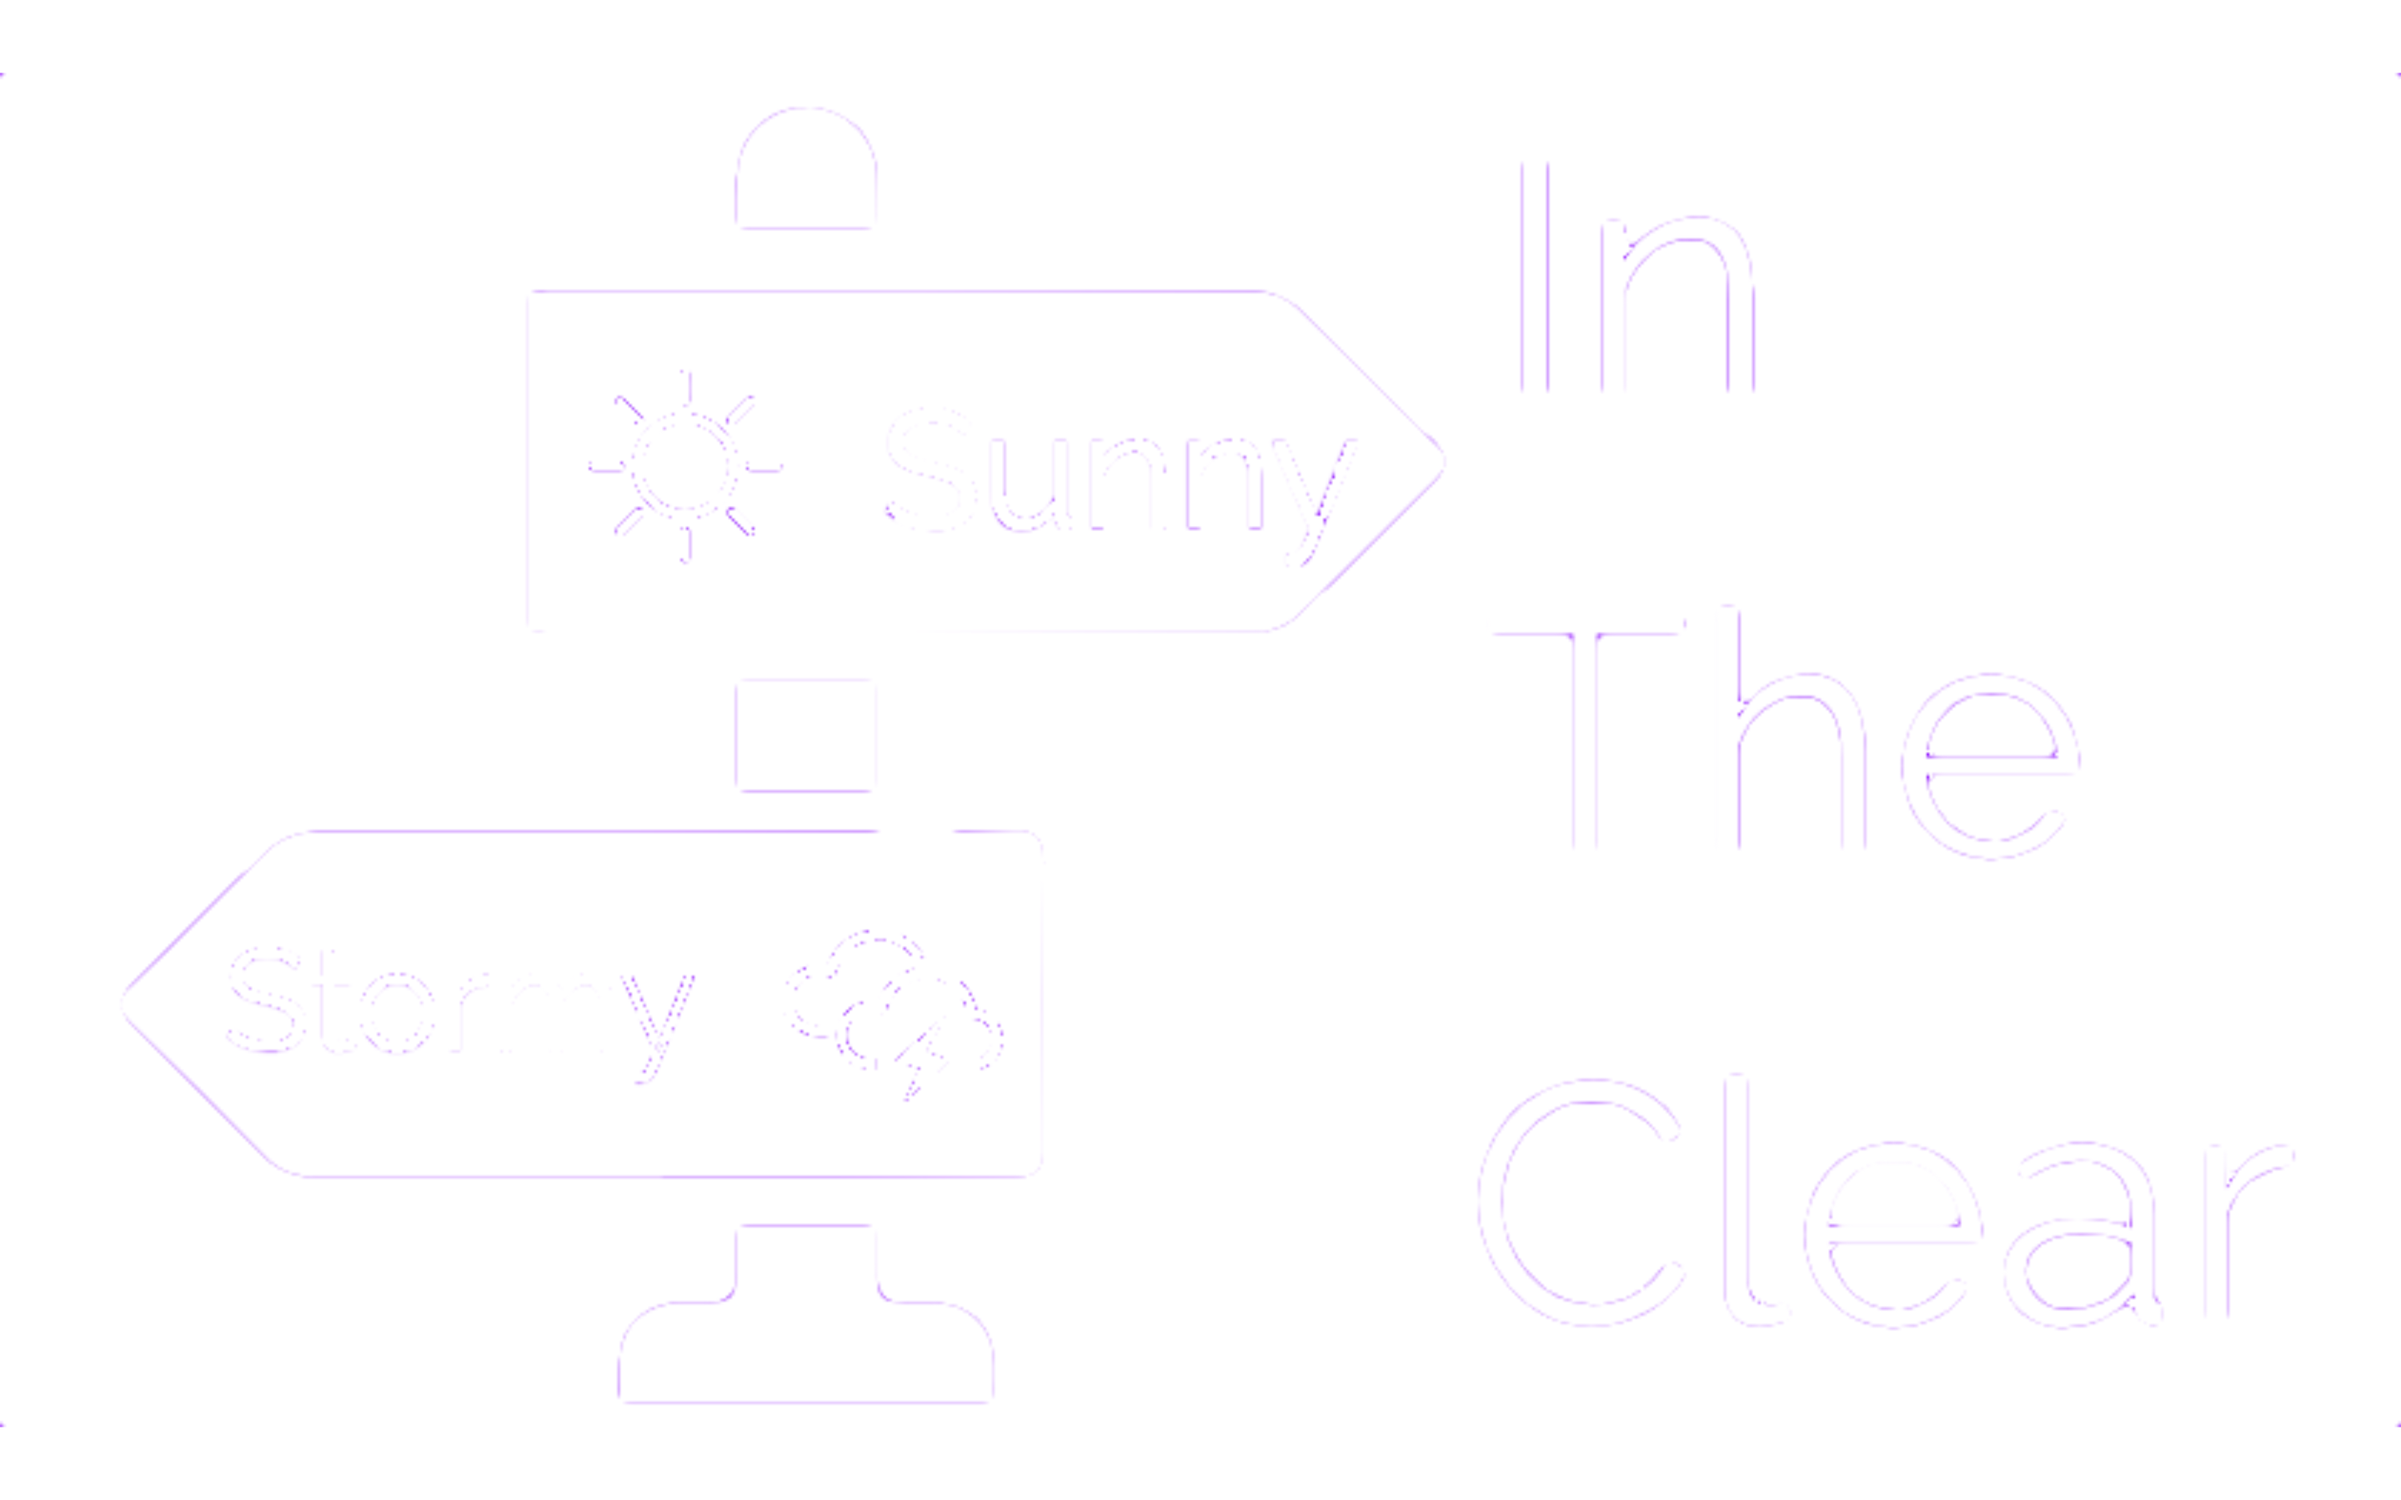
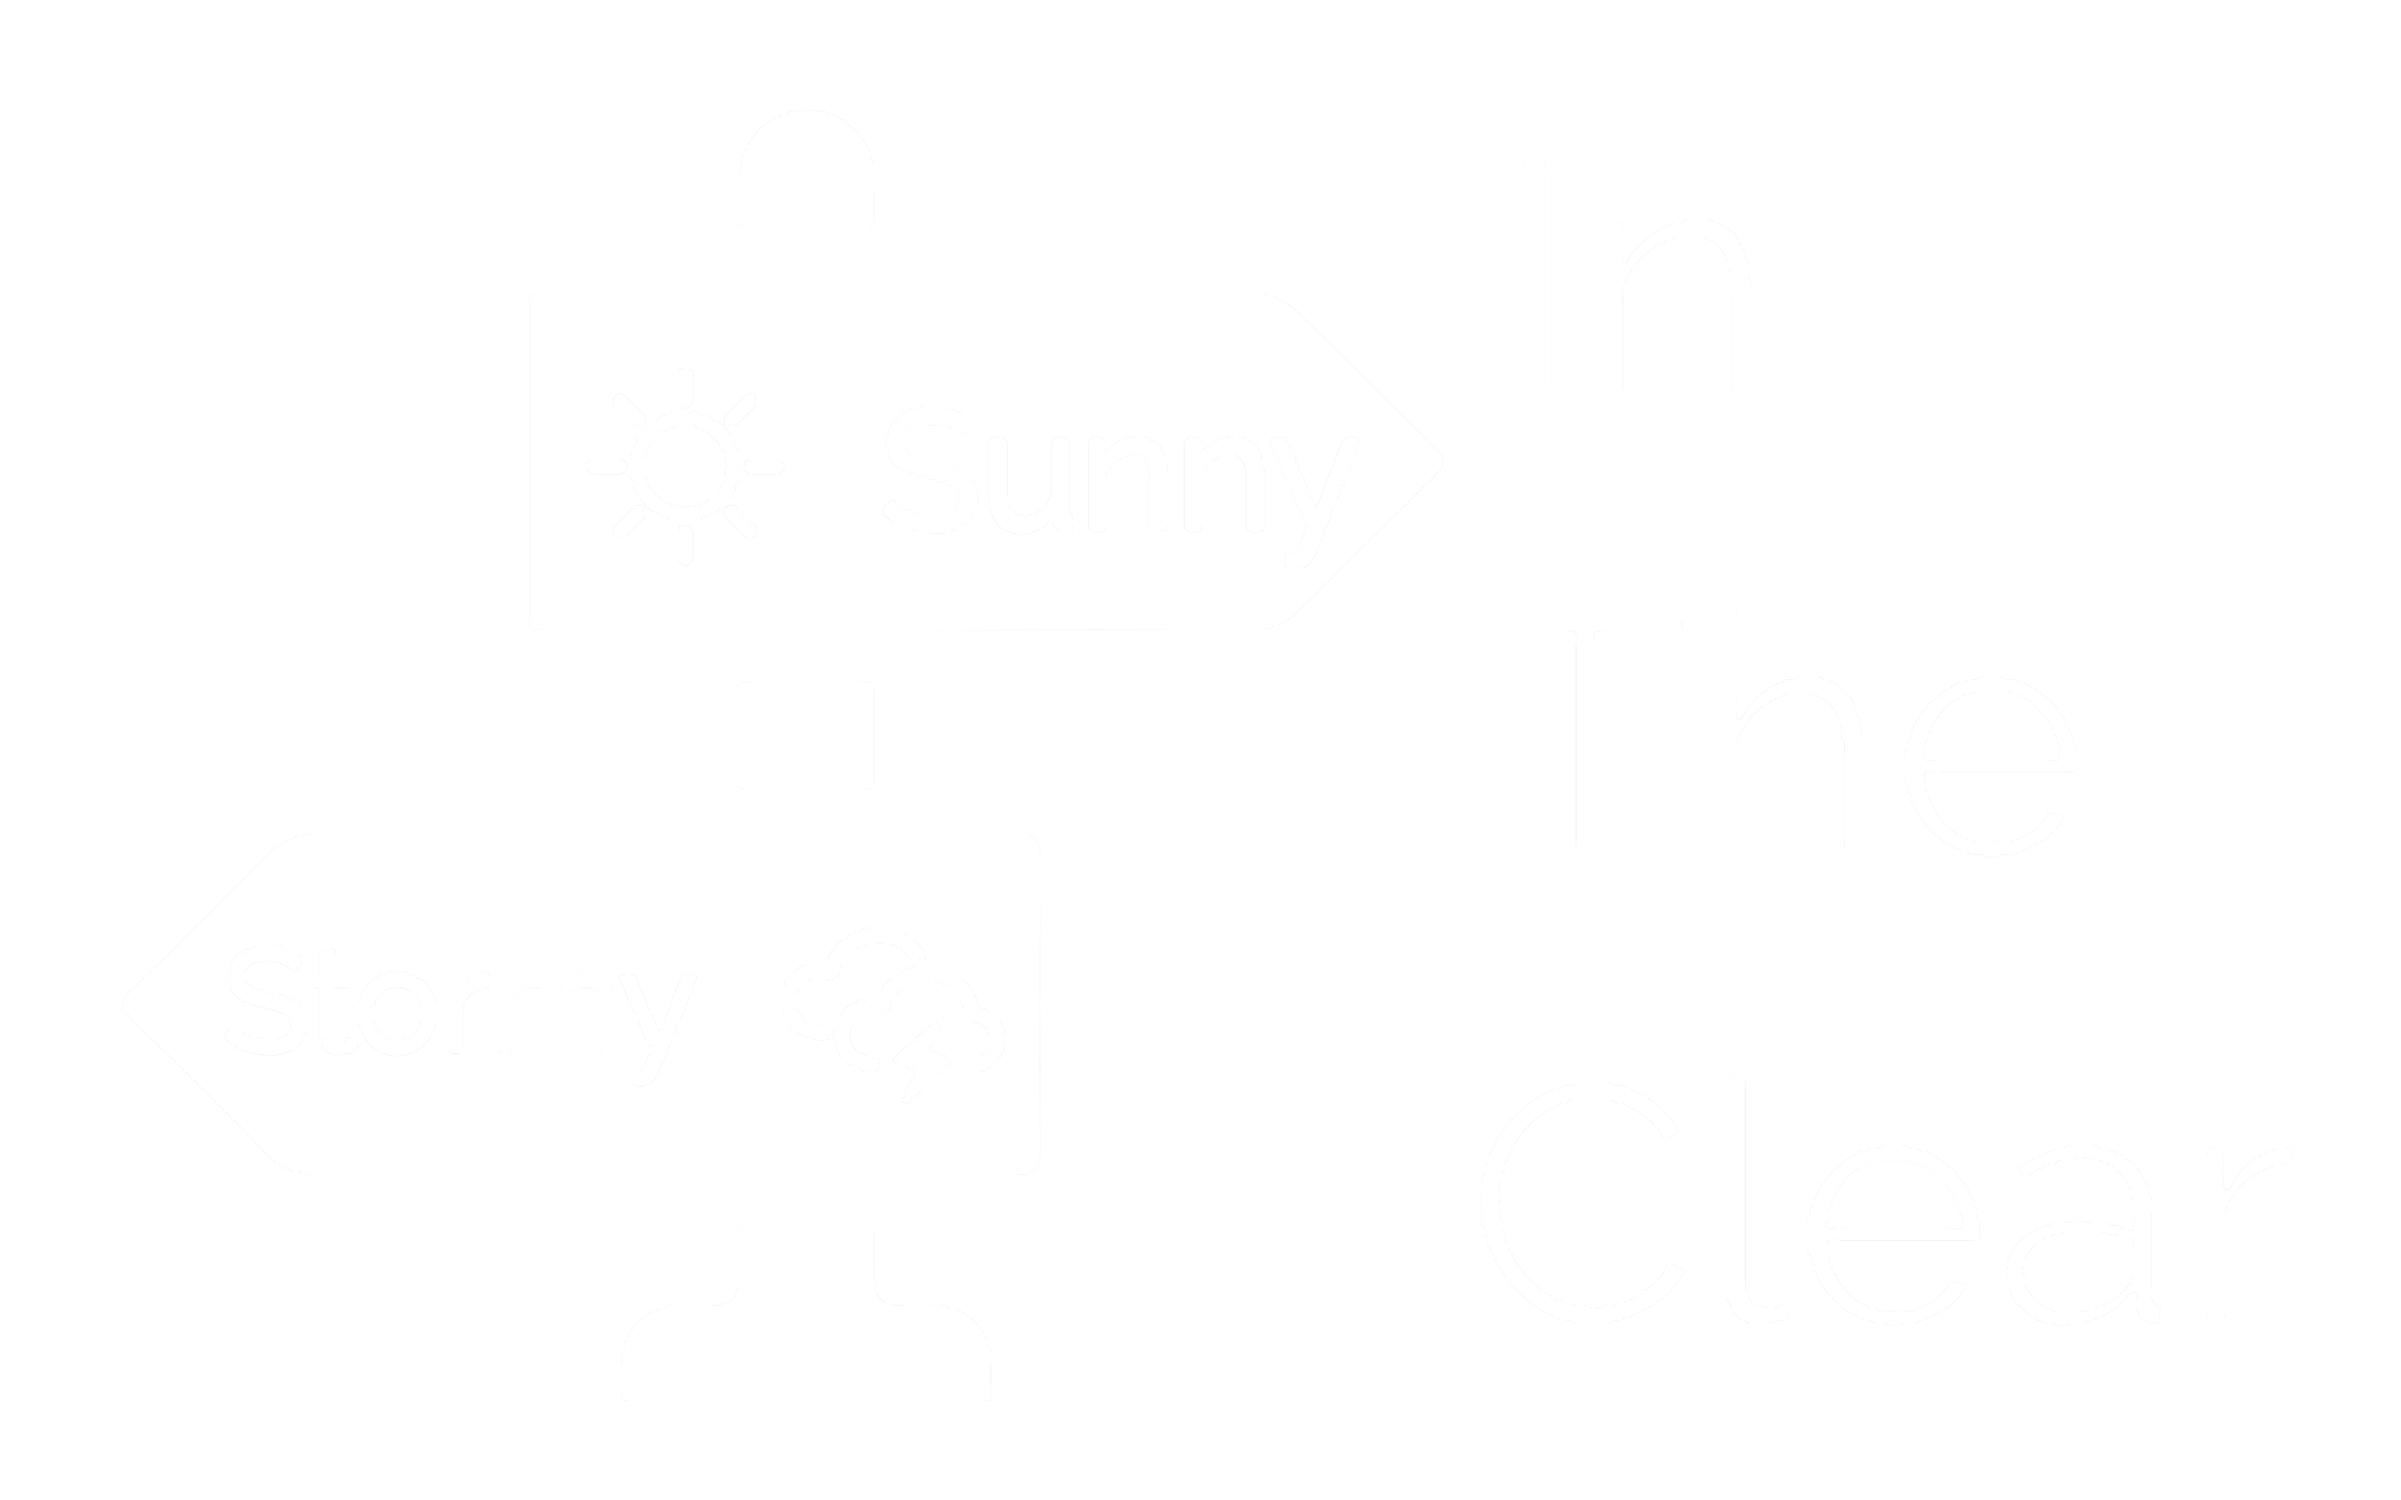
used gatsby to import pngs

diff --git a/src/components/footer.js b/src/components/footer.js
@@ -1,17 +1,32 @@
 import React from "react";
 import InTheClearFill from "../images/InTheClearFill.png";
+import { StaticQuery, graphql } from "gatsby";
+import Img from 'gatsby-image';
 
 function Footer(props) {
 
     return (
-
+        <StaticQuery 
+            query={graphql`
+                query footerQuery {
+                    file(relativePath: { regex: "/InTheClearFill.png/" }) {
+                        childImageSharp {
+                        sizes(maxWidth: 1240 ) {
+                            ...GatsbyImageSharpSizes
+                        }
+                        }
+                    }
+                }
+                `
+            }
+        render={data => (
         <footer className="bg-white">
 
             <div className="container mx-auto  px-8">
                 <div className="w-full flex flex-col md:flex-row py-6">             
                     <div className="flex-1 mb-6">           
                         <a className="text-orange-600 no-underline hover:no-underline font-bold text-2xl lg:text-4xl"  href="/"> 
-                            <img className="w-full md:w-4/5 z-50" src={InTheClearFill} />
+                            <Img className="w-full md:w-4/5 z-50" sizes={data.file.childImageSharp.sizes} />
                         </a>
                     </div>    
                     <div className="flex-1">
@@ -48,6 +63,8 @@ function Footer(props) {
             </div>
 
         </footer>
+        )}
+        />
     )
 }
 

diff --git a/src/components/layout.js b/src/components/layout.js
@@ -1,9 +1,9 @@
 import React from "react";
 import PropTypes from "prop-types";
 import { StaticQuery, graphql } from "gatsby";
+import Img from 'gatsby-image';
 
 import Footer from "./footer";
-import InTheClear from "../images/InTheClear.png";
 import FeatureData from "../data/features.json";
 import VersionData from "../data/Versions.json";
 
@@ -66,7 +66,7 @@ function CardContent(props){
   )
 }
 
-function Layout({ children, images }) {
+function Layout({ children }) {
   return (
     <StaticQuery
       query={graphql`
@@ -91,7 +91,14 @@ function Layout({ children, images }) {
                 publicURL
               }
             }
-          } 
+          }
+          file(relativePath: { regex: "/InTheClear.png/" }) {
+            childImageSharp {
+              sizes(maxWidth: 1240 ) {
+                ...GatsbyImageSharpSizes
+              }
+            }
+          }
         }
       `}
       render={data => (
@@ -117,8 +124,10 @@ function Layout({ children, images }) {
 
                 </div>
 
-                <div className="w-full md:w-3/5 py-6 pb-10 text-center">
-                  <img className="w-full md:w-4/5 z-50" src={InTheClear} />
+                <div className="lg:w-1/6"/>
+
+                <div className="w-full md:w-3/5 lg:w-2/5 py-6 pb-10 text-center">
+                  <Img className="w-full z-50" sizes={data.file.childImageSharp.sizes} />
                 </div>
                 
               </div>

diff --git a/gatsby-config.js b/gatsby-config.js
@@ -45,9 +45,9 @@ module.exports = {
         name: `images`,
       },
     },
-    `gatsby-transformer-remark`,
     `gatsby-transformer-sharp`,
     `gatsby-plugin-sharp`,
+    `gatsby-transformer-remark`,
     {
       resolve: `gatsby-plugin-google-analytics`,
       options: {
